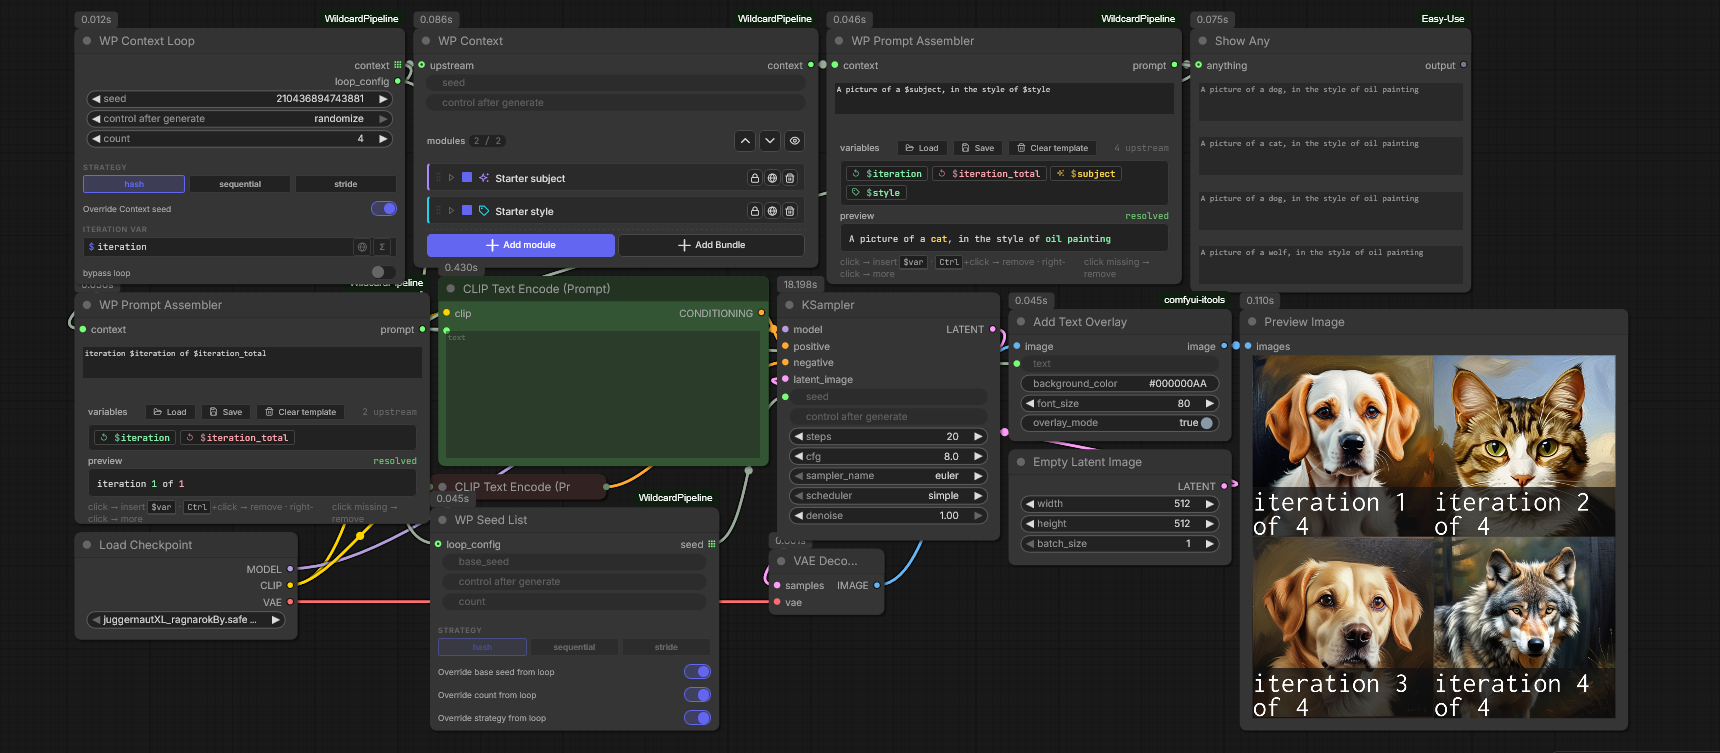
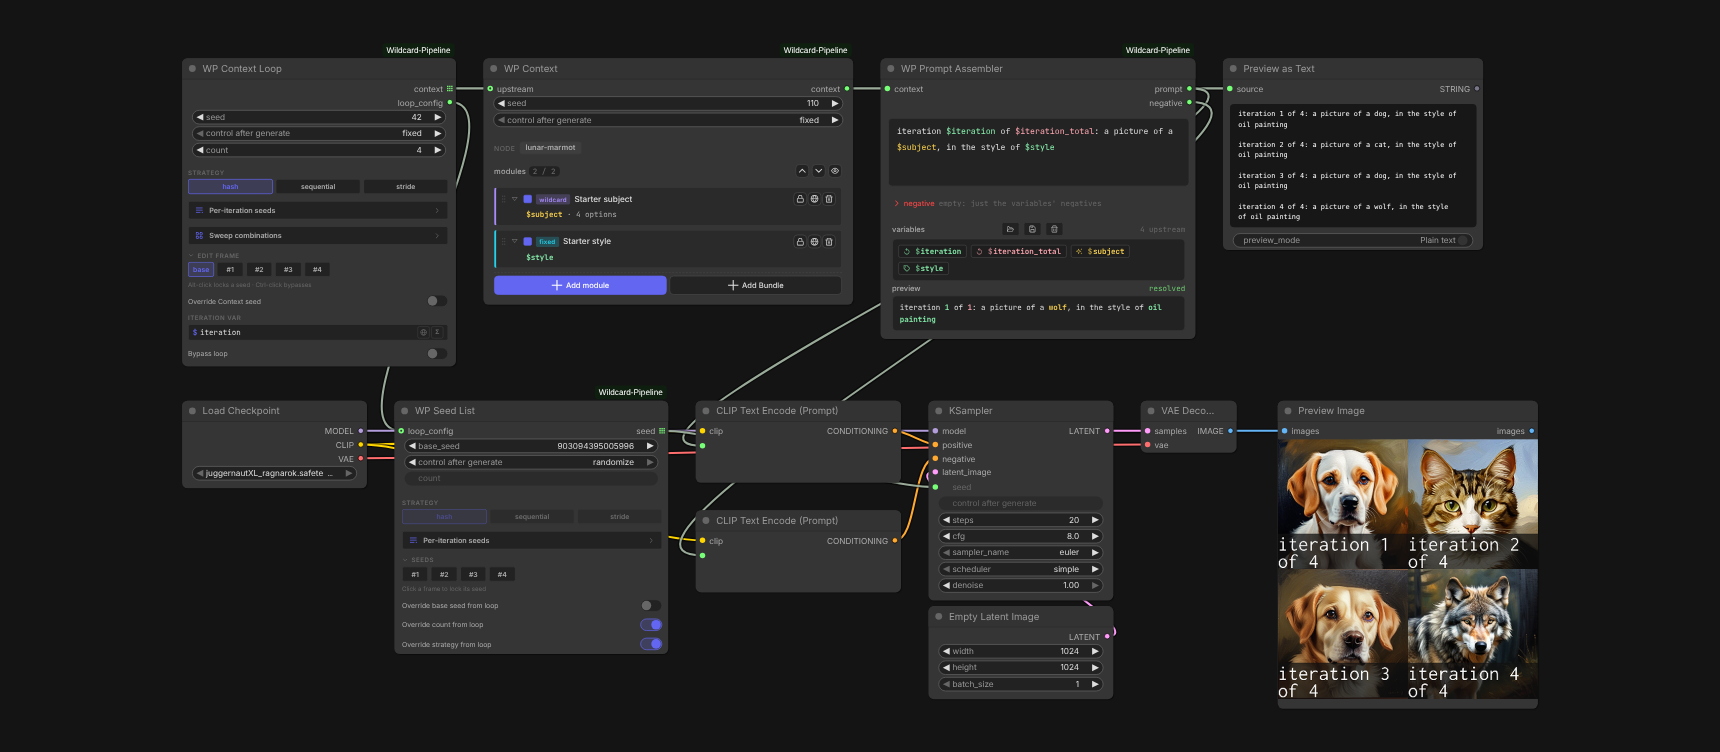
docs: retake the last old screenshots and add Image Filter shots to its page
Quick start shows the whole New wildcard form, the loop grid uses the
current nodes, wildcard import is 1720 wide, and the WP Image Filter page
gets the node, picker, sweep grid and refine shots. Figure texts match.

diff --git a/src/manager/docs/figures.ts b/src/manager/docs/figures.ts
@@ -40,7 +40,7 @@ export const FIGURE_TEXT: Record<string, string> = {
   "images/docs/wildcard-constraint-order.png":
     "Screenshot of a WP Context (modules 3 / 3) wired into a WP Prompt Assembler. The Context rows, top to bottom: Starter subject ('$subject · 4 options'), Starter pairing, a constraint marked #1-all ('$subject → $mood · 2×2'), and Starter mood marked #1 ('$mood · 4 options'). The Assembler's template is 'a $mood $subject, masterpiece' and its preview reads 'a sleepy wolf, masterpiece'. It shows the order: source wildcard, then the constraint, then the target wildcard it changes.",
   "images/docs/wildcard-import.png":
-    "Screenshot of the wildcard import review page for a pack named Billions of Wildcards: 935 wildcards plus 43 groups from 1 file, where 1,896 lists were merged into 190 tagged wildcards. Tiles count 137 Entry point, 386 Composition, 412 Vocabulary and 43 Group, and a How it carries over bar reads Exact 976, Close 0, Needs a look 2. In the middle the search clothings/regular shows one merged wildcard (12 lists, Vocabulary, 782 options) expanded to its source lists such as female + footwear, with a Keep these lists separate button. On the right are Import settings including Merge related lists, and a Continue to import button.",
+    "Screenshot of the wildcard import review page for a pack named fantasy-pack: 11 wildcards with 285 options from 49 files, where 43 lists were merged into 5 tagged wildcards. Tiles count 3 Entry point, 3 Composition, 5 Vocabulary and 0 Group, and a How it carries over bar reads Exact 10, Close 0, Needs a look 1. Domains on the left: All, prompts (with a red dot), characters, scenes and Loose files. The table lists each wildcard with its role, options, used by and carries over; prompts/landscape needs a look. The merged characters wildcard (11 lists) is open: one wildcard made from 11 lists under characters/, with tag groups and its lists such as hair + colors + red and races + elf, and a Keep these lists separate button. On the right are Import settings (pack name, library tag, category, Bundle the entry points, Merge related lists, Apply) and a conversion note that ${name} variables stay as plain text. A Continue to import button sits at the bottom.",
   "images/docs/wp-context-injector.png":
     "Screenshot of outside text becoming variables. Two Text (Multiline) nodes, 'red hoodie, ripped jeans, sneakers' and 'rooftop at night, neon signs, light rain', wire into input_0 and input_1 of a WP Context Injector. Its injected variables list (2 / 2) shows two string rows named outfit and place. The Injector's context feeds a WP Prompt Assembler with the template 'a woman wearing $outfit, $place, cinematic' and chips $outfit and $place, and a Preview as Text node prints the run's result: 'a woman wearing red hoodie, ripped jeans, sneakers, rooftop at night, neon signs, light rain, cinematic'.",
   "wp-context-injector-flow":
@@ -48,13 +48,21 @@ export const FIGURE_TEXT: Record<string, string> = {
   "images/docs/wp-context-loop-graph.png":
     "Screenshot of a four-node loop chain. A WP Context Loop (seed 42, fixed, count 4, strategy hash, Edit frame chips base and #1 to #4, iteration var $iteration) feeds a WP Context holding Starter subject and Starter style, which feeds a WP Prompt Assembler with the template '$iteration of $iteration_total: a picture of a $subject, in the style of $style' and chips $iteration, $iteration_total, $subject and $style. A Preview as Text node shows the run's prompts, starting '1 of 4: a picture of a wolf, in the style of oil painting' and '2 of 4: a picture of a dog, in the style of oil painting'. One prompt per frame.",
   "images/docs/wp-context-loop-grid.png":
-    "Screenshot of a full looped workflow and its output. WP Context Loop (count 4, hash) feeds a WP Context with Starter subject and Starter style and a WP Prompt Assembler ('A picture of a $subject, in the style of $style'),. The loop's loop_config also feeds a WP Seed List whose seeds go to a KSampler with CLIP Text Encode (Prompt) and VAE Decode; a second assembler with template 'iteration $iteration of $iteration_total' drives an Add Text Overlay. The Preview Image shows a 2 by 2 grid of painted animal portraits captioned iteration 1 of 4 to iteration 4 of 4: a dog, a cat, a dog and a wolf. One image per pass, each with its own prompt and seed.",
+    "Screenshot of a full looped workflow and its output. Top row: WP Context Loop (seed 42, fixed, count 4, hash, with Per-iteration seeds and Sweep combinations rows and Edit frame chips base and #1 to #4) feeds a WP Context holding Starter subject and Starter style, which feeds a WP Prompt Assembler with the template 'iteration $iteration of $iteration_total: a picture of a $subject, in the style of $style'. A Preview as Text node lists the four prompts: a dog, a cat, a dog and a wolf, each in the style of oil painting. Bottom row: Load Checkpoint, a WP Seed List fed by the loop's loop_config whose seed goes to the KSampler, two CLIP Text Encode nodes (prompt and negative from the Assembler), Empty Latent Image, VAE Decode and a Preview Image showing a 2 by 2 grid of painted animal portraits captioned iteration 1 of 4 to iteration 4 of 4: a dog, a cat, a dog and a wolf. One image per frame, each with its own prompt and seed.",
   "images/docs/wp-context.png":
     "Screenshot of a WP Context (seed 42, fixed, modules 4 / 4) wired into a WP Debug. The Context holds four wildcard rows: Starter subject ($subject), Hair ($hair), Pose ($pose) and Weather ($weather), each with 4 options and the lock, globe and bin buttons on the right, with Add module and Add Bundle at the bottom. The Debug's Variables tab (seed 42, 4 steps, clean run) lists $subject tiger (tag feline), $hair black hair (tag cool), $pose standing and $weather golden hour (tag dry), each with the module that set it.",
   "images/docs/wp-debug-viewer.png":
     "Screenshot of a WP Context feeding a WP Debug. The Context (seed 42, fixed, modules 7 / 7) has the Starter set bundle expanded (Starter subject, Starter pairing, Starter mood, Starter style, Starter scene, Starter accent) and a Hair wildcard below it. The WP Debug header reads seed 42, 7 steps, clean run, with tabs Variables (6), Trace (7), Warnings and Raw and a Filter variables box. The Variables tab lists $subject cat (feline) and $mood dramatic (intense), both marked hidden from the prompt, then $style oil painting, $scene dramatic cat, $accent cinematic lighting and $hair silver hair (cool), each with the module that set it on the right.",
   "images/docs/wp-debug-two.png":
     "Screenshot of two Context → Debug pairs stacked. The top WP Context holds Starter subject and Pose; its Debug lists $subject dog (canine) and $pose standing. The bottom WP Context holds Hair and Weather; its Debug shows a red '1 negative' badge and lists $hair black hair (cool) and $weather light rain with the negative '- umbrella' under it (tag wet). It shows that Debug lists each variable's value, tags and source, and the negative words a pick carries.",
+  "images/docs/wp-image-filter-picker.png":
+    "Screenshot of the WP Image Filter picker, marked Waiting, in Frames view with Fit on: 12 frames, 12 images of a painted mountain lake, each labelled with its number and sweep options, from #1 dawn · oil · calm to #12 night · pencil · stormy. Frames #1, #5 and #10 are picked (green border and tick). The footer reads 3 picked from 3 frames with a countdown, and the buttons Send to Loop, Stop branch, Keep all 12 and Keep 3 picked.",
+  "images/docs/wp-image-filter-grid.png":
+    "Screenshot of the WP Image Filter picker in Grid view for a sweep of $time, $medium and $mood. The bar reads Rows $time, Columns $medium, Split by $mood. Two grids sit side by side, $mood calm (2 of 6 picked) and $mood stormy (1 of 6 picked), each with rows dawn and night and columns oil, watercolor and pencil; the picked cells have a green border and tick.",
+  "images/docs/wp-image-filter-refine.png":
+    "Screenshot of Zoom & refine on frame #5 (dawn · pencil · calm, image 1, 5 / 12, Picked) with Details open. The right panel lists Values: $time dawn, $medium pencil, $mood calm, $iteration 5, $iteration_total 12, with Copy. Under Refine before it goes on, the Positive box reads 'mountain lake at dawn, pencil painting, calm sky' with each value marked, the Negative box reads 'blurry, lowres', and a note says No CLIP wired: an edit changes the text outputs only. Mask has a Paint button.",
+  "images/docs/wp-image-filter.png":
+    "Screenshot of a WP Image Filter node after a run, wired into a Preview Image. The node lists its inputs and matching outputs (images, latent, masks, positive, negative, positive_text, negative_text, context, extra_1, extra_2, clip in and picks out). Under When it runs: Mode Pause & pick (Reuse last picks, Pass all), Send picks as Same shape, Timeout 600 s then keep all. The Last run strip reads 3 of 12 kept · frames 1, 5, 10 with three thumbnails, and the Preview Image shows the same three landscapes.",
   "wp-image-filter-flow":
     "Flow diagram of three stages left to right: KSampler + VAE Decode (images, latent), an arrow labelled images + prompts, WP Image Filter (you pick), an arrow labelled picks, and Upscaler (picked only). Caption: wire the same conditioning and prompt text through the filter that the upscaler would otherwise take from the start, so only the picked images and their matching data go on.",
   "wp-model-info-flow":
@@ -76,7 +84,7 @@ export const FIGURE_TEXT: Record<string, string> = {
   "introduction-figure":
     "Diagram of the pipeline. Across the top, labelled modules inside the Context, sit five module kinds: Wildcard, Fixed Values, Combine, Derivation and Constraint, with a down arrow into the flow below. The flow runs left to right: WP Context (rolls + resolves), an arrow labelled emits, a group of resolved $vars chips ($subject, $style, $lighting), an arrow labelled fills, Prompt Assembler (with a template beginning 'A $style portrait…'), an arrow labelled prompt, and CLIP Encode (conditioning). Caption: modules resolve inside WP Context into named $variables, which go to the WP Prompt Assembler and then to CLIP.",
   "images/docs/quick-start-starter.png":
-    "Screenshot of the manager's New wildcard page (breadcrumb Library › Wildcards › New wildcard) after pressing Create a starter wildcard, scrolled to the options. Sub-categories says No sub-categories yet. Options (3) lists 'a cat', 'a dog' and 'a fox', each with weight 1, sub-category (none), a + negative button and a 33% probability bar; above the table are Bulk edit, Add null and Add option. Cancel and Save sit at the bottom right; nothing is stored until you press Save.",
+    "Screenshot of the whole New wildcard page in the manager (breadcrumb Library › Wildcards › New wildcard) after pressing Create a starter wildcard. Identity: Name 'subject', Category None, Variable name $subject, an empty Description, Tags with an Add button, and Content rating with a Mark as NSFW (18+) switch. Sub-categories says No sub-categories yet. Options (3) lists 'a cat', 'a dog' and 'a fox', each with weight 1, sub-category (none), a + negative button and a 33% probability bar; above the table are Bulk edit, Add null and Add option. Cancel and Save sit at the bottom right; nothing is stored until you press Save.",
   "test-runner-flow":
     "Flow diagram of four stages left to right: Scenario (stack + pins + seeds), an arrow labelled Ctrl + Enter, Run (real engine, seeded), an arrow labelled per seed, Results (values, traces, warnings), an arrow labelled save, and Baseline (compare after edits). Caption: a seed here is a real chain seed, so the same seed on a canvas Context holding the same modules gives the same values.",
   "images/how-picks-carry-over.webp":

diff --git a/src/manager/docs/pages/nodes/wp-image-filter.vue b/src/manager/docs/pages/nodes/wp-image-filter.vue
@@ -7,6 +7,7 @@ import DocFlow from "../../../components/docs/DocFlow.vue";
 import DocKeyList from "../../../components/docs/DocKeyList.vue";
 import CrossLinks from "../../../components/docs/CrossLinks.vue";
 import DocFigureText from "../../../components/docs/DocFigureText.vue";
+import DocImage from "../../../components/docs/DocImage.vue";
 import picksDiagram from "../../images/how-picks-carry-over.webp";
 
 const ports = [
@@ -90,6 +91,11 @@ const settings = [
     </DocSection>
 
     <DocSection title="The picker">
+      <DocImage
+        src="images/docs/wp-image-filter-picker.png"
+        ratio="1720 / 1088"
+        caption="The picker for a 12-frame sweep with Fit on: each frame is labelled with its number and the options it pinned. Three images are picked."
+      />
       <DocKeyList :items="keys" />
       <p>
         <b>Keep all</b> sends everything on. <b>Stop branch</b> stops the nodes after this one;
@@ -112,6 +118,11 @@ const settings = [
         <b>Split by</b>, one small grid per value. Click a row, column or group name to pick all of
         it. <b>Frames</b> in the header switches back to the list.
       </p>
+      <DocImage
+        src="images/docs/wp-image-filter-grid.png"
+        ratio="1720 / 676"
+        caption="A sweep of $time × $medium × $mood as a grid: rows and columns, split by $mood."
+      />
       <p>
         <b>Send to Loop</b> writes your picks back to the loop: the picked frames' seeds are
         locked (when the loop overrides seeds) and every other frame is bypassed, so the next run
@@ -134,6 +145,11 @@ const settings = [
         <li>A painted mask goes to the <code>masks</code> output, resized to the image. Images you
           don't paint keep the incoming mask, or an empty one when nothing is wired in.</li>
       </ul>
+      <DocImage
+        src="images/docs/wp-image-filter-refine.png"
+        ratio="1720 / 910"
+        caption="Zoom & refine on frame 5 with Details open: the frame's values, its prompt with each value marked, the negative, and Paint for a mask."
+      />
       <figure class="wp-doc-figure">
         <img :src="picksDiagram" alt="How the picks carry over: images, latents, masks, conditioning and prompt text of picked frames go on; an edited prompt is re-encoded and a painted mask goes to the masks output." loading="lazy">
       </figure>
@@ -141,6 +157,11 @@ const settings = [
     </DocSection>
 
     <DocSection title="Settings on the node">
+      <DocImage
+        src="images/docs/wp-image-filter.png"
+        ratio="2 / 1"
+        caption="WP Image Filter after a run, next to a Preview Image of the three images it kept."
+      />
       <DocKeyList :items="settings" />
       <p>The <b>Last run</b> strip under the settings shows what the last run kept.</p>
     </DocSection>

diff --git a/src/manager/docs/pages/modules/wildcard-import.vue b/src/manager/docs/pages/modules/wildcard-import.vue
@@ -45,8 +45,8 @@ const importRules = [
       </p>
       <DocImage
         src="images/docs/wildcard-import.png"
-        ratio="1148 / 695"
-        caption="Billions of Wildcards in review: 2,653 lists become 935 wildcards, 1,896 of them merged into 190 tagged wildcards. Open here is clothings/regular, 12 lists merged into one wildcard with a gender tag group (female, male, unisex) and a garment group; each list shows the tags that pick it, and Keep these lists separate undoes the merge."
+        ratio="8 / 5"
+        caption="A small fantasy pack in review: 49 files become 11 wildcards, 43 lists merged into 5 tagged wildcards. Open here is characters, 11 lists merged into one wildcard; each list shows the tags that pick it, and Keep these lists separate undoes the merge."
       />
     </DocSection>
 

diff --git a/src/manager/docs/pages/nodes/wp-context-loop.vue b/src/manager/docs/pages/nodes/wp-context-loop.vue
@@ -120,8 +120,8 @@ const controls = [
       </p>
       <DocImage
         src="images/docs/wp-context-loop-grid.png"
-        ratio="16 / 7"
-        caption="A full looped workflow with a WP Seed List on the sampler: four portraits labelled 'iteration 1 of 4' to 'iteration 4 of 4', each with its own prompt and seed."
+        ratio="1720 / 752"
+        caption="A full looped workflow: the loop's loop_config feeds a WP Seed List on the sampler, so each of the four frames gets its own prompt and its own seed."
       />
     </DocSection>
 

diff --git a/src/manager/docs/pages/overview/quick-start.vue b/src/manager/docs/pages/overview/quick-start.vue
@@ -36,7 +36,7 @@ function createStarterWildcard(): void {
       </div>
       <DocImage
         src="images/docs/quick-start-starter.png"
-        ratio="2 / 1"
+        ratio="1720 / 1625"
         caption="The New wildcard form filled in by the button: a subject wildcard with a cat, a dog and a fox. Nothing is saved until you press Save."
       />
     </DocSection>
